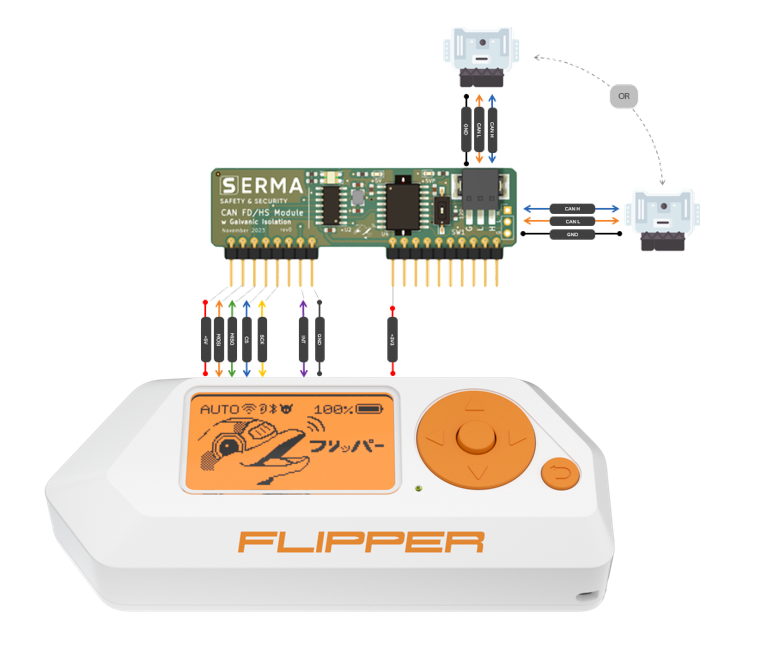
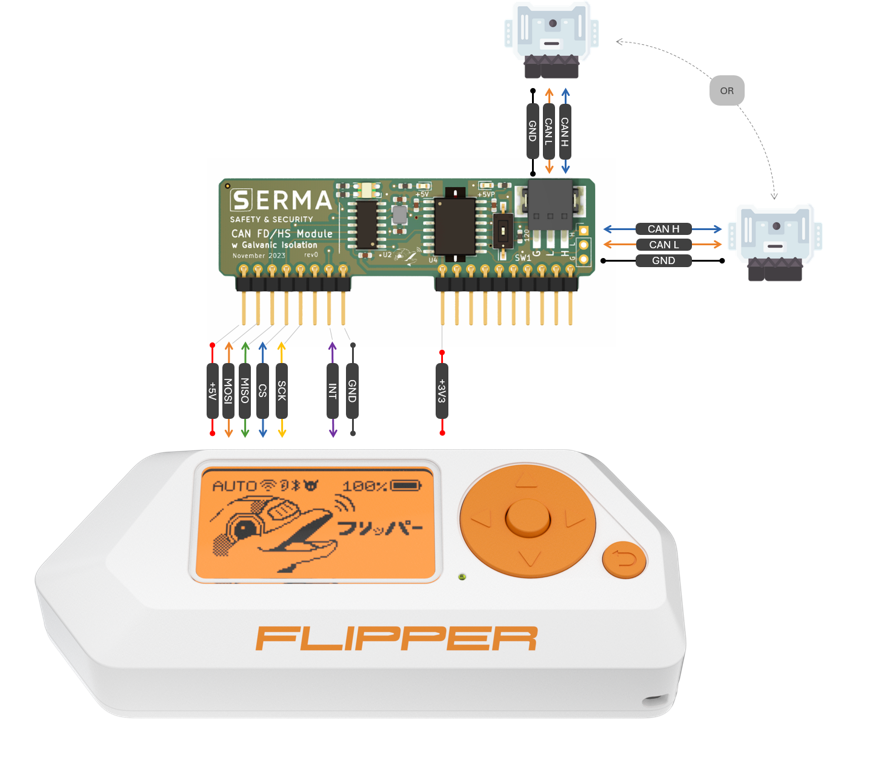
Updating README_HW

Changed region(s): [[0.0308, 0.0, 0.9551, 0.9668], [0.7702, 0.0906, 0.8626, 0.1813]]

diff --git a/Hardware/README_HW.md b/Hardware/README_HW.md
@@ -1,9 +1,7 @@
 # Flipper Zero CAN FD HS 
 
-![Build Status](https://img.shields.io/badge/build-passing-brightgreen)
-
 <div align="center">
-  <img src="HW_banner.png" alt="">
+  <img src="/Pictures/HW_banner.png" alt="">
 </div>
 
 ## Table of Contents
@@ -47,7 +45,7 @@ This repository contains the hardware design files, including schematics, PCB la
 ## Board Pinout
 
 <div align="center">
-  <img src="Pinout.png" alt="Pinout"  style="width: 700px;">
+  <img src="/Pictures/Connection_wo_Flipper.png" alt="Pinout"  style="width: 700px;">
 </div>
 
 ## Directory Structure
